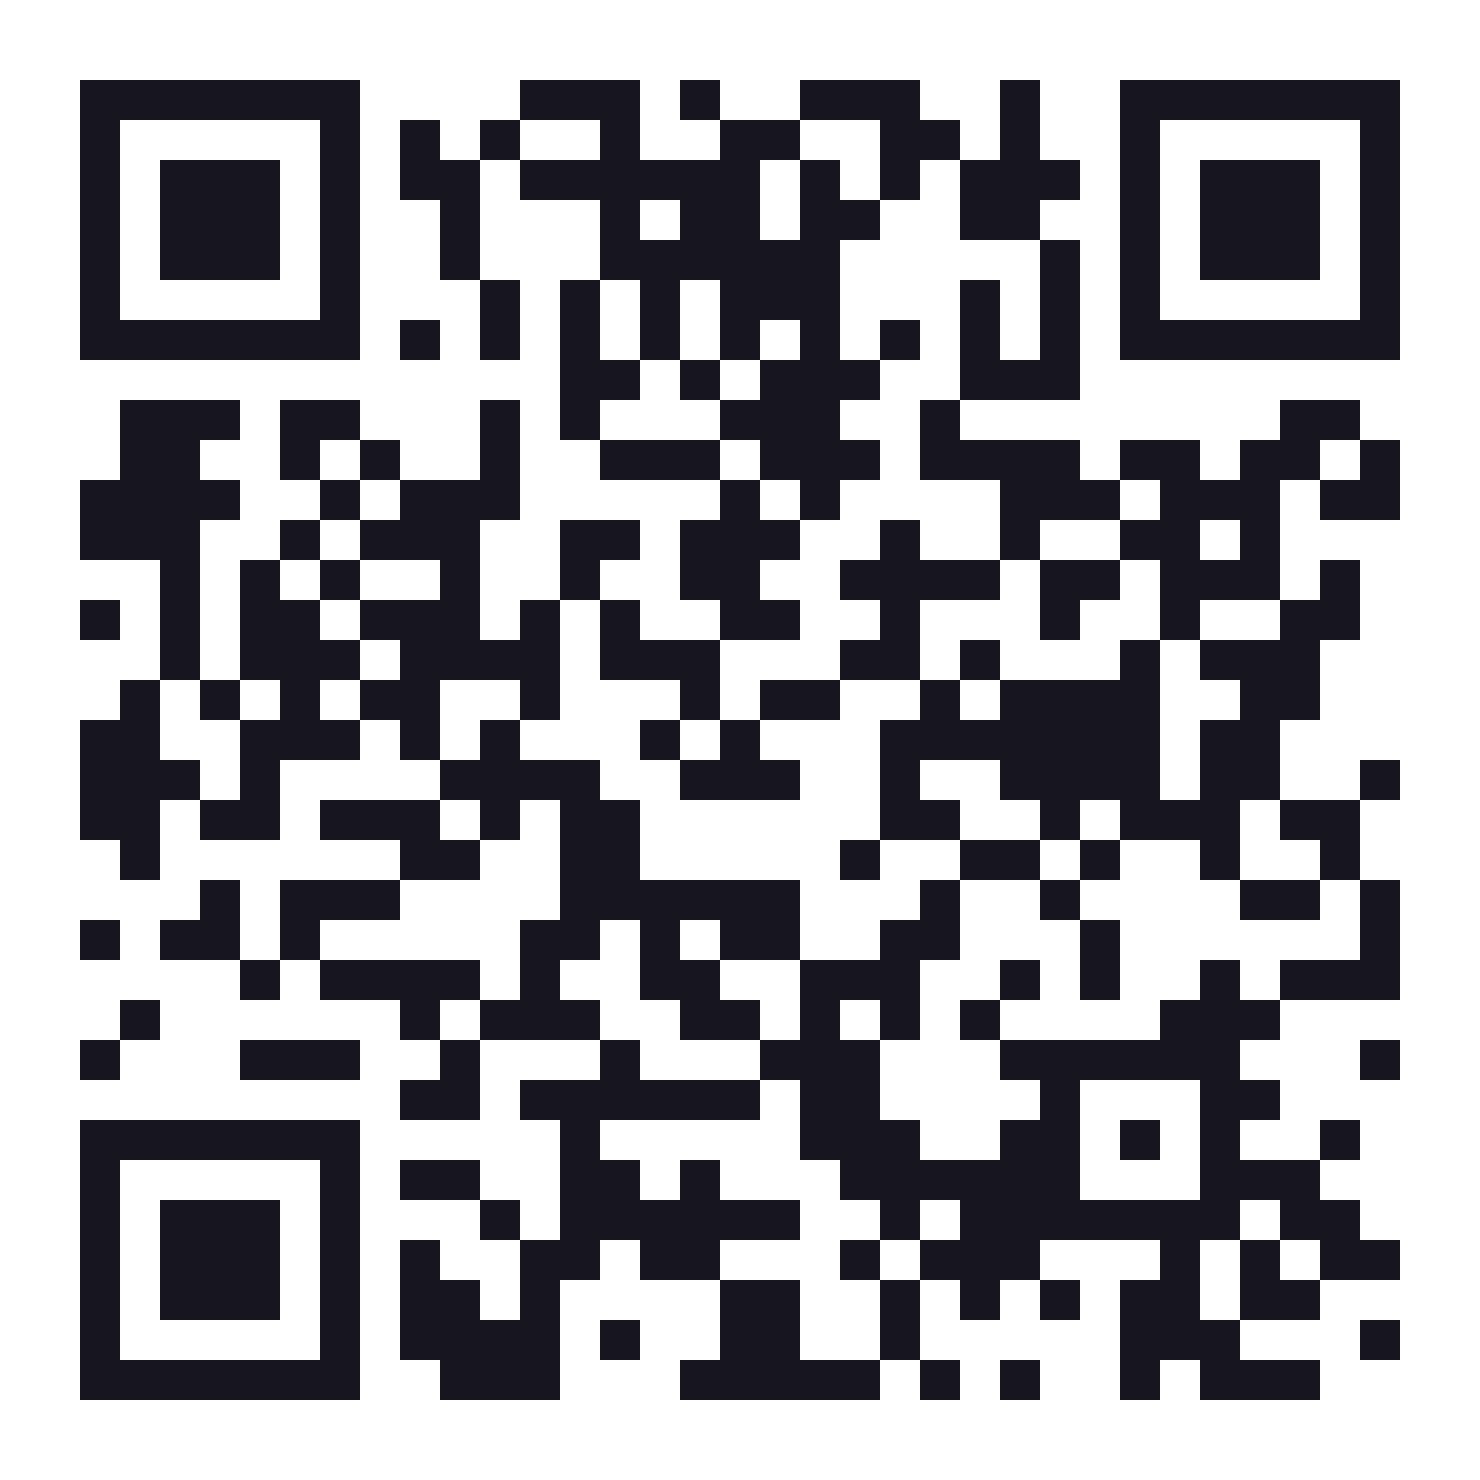
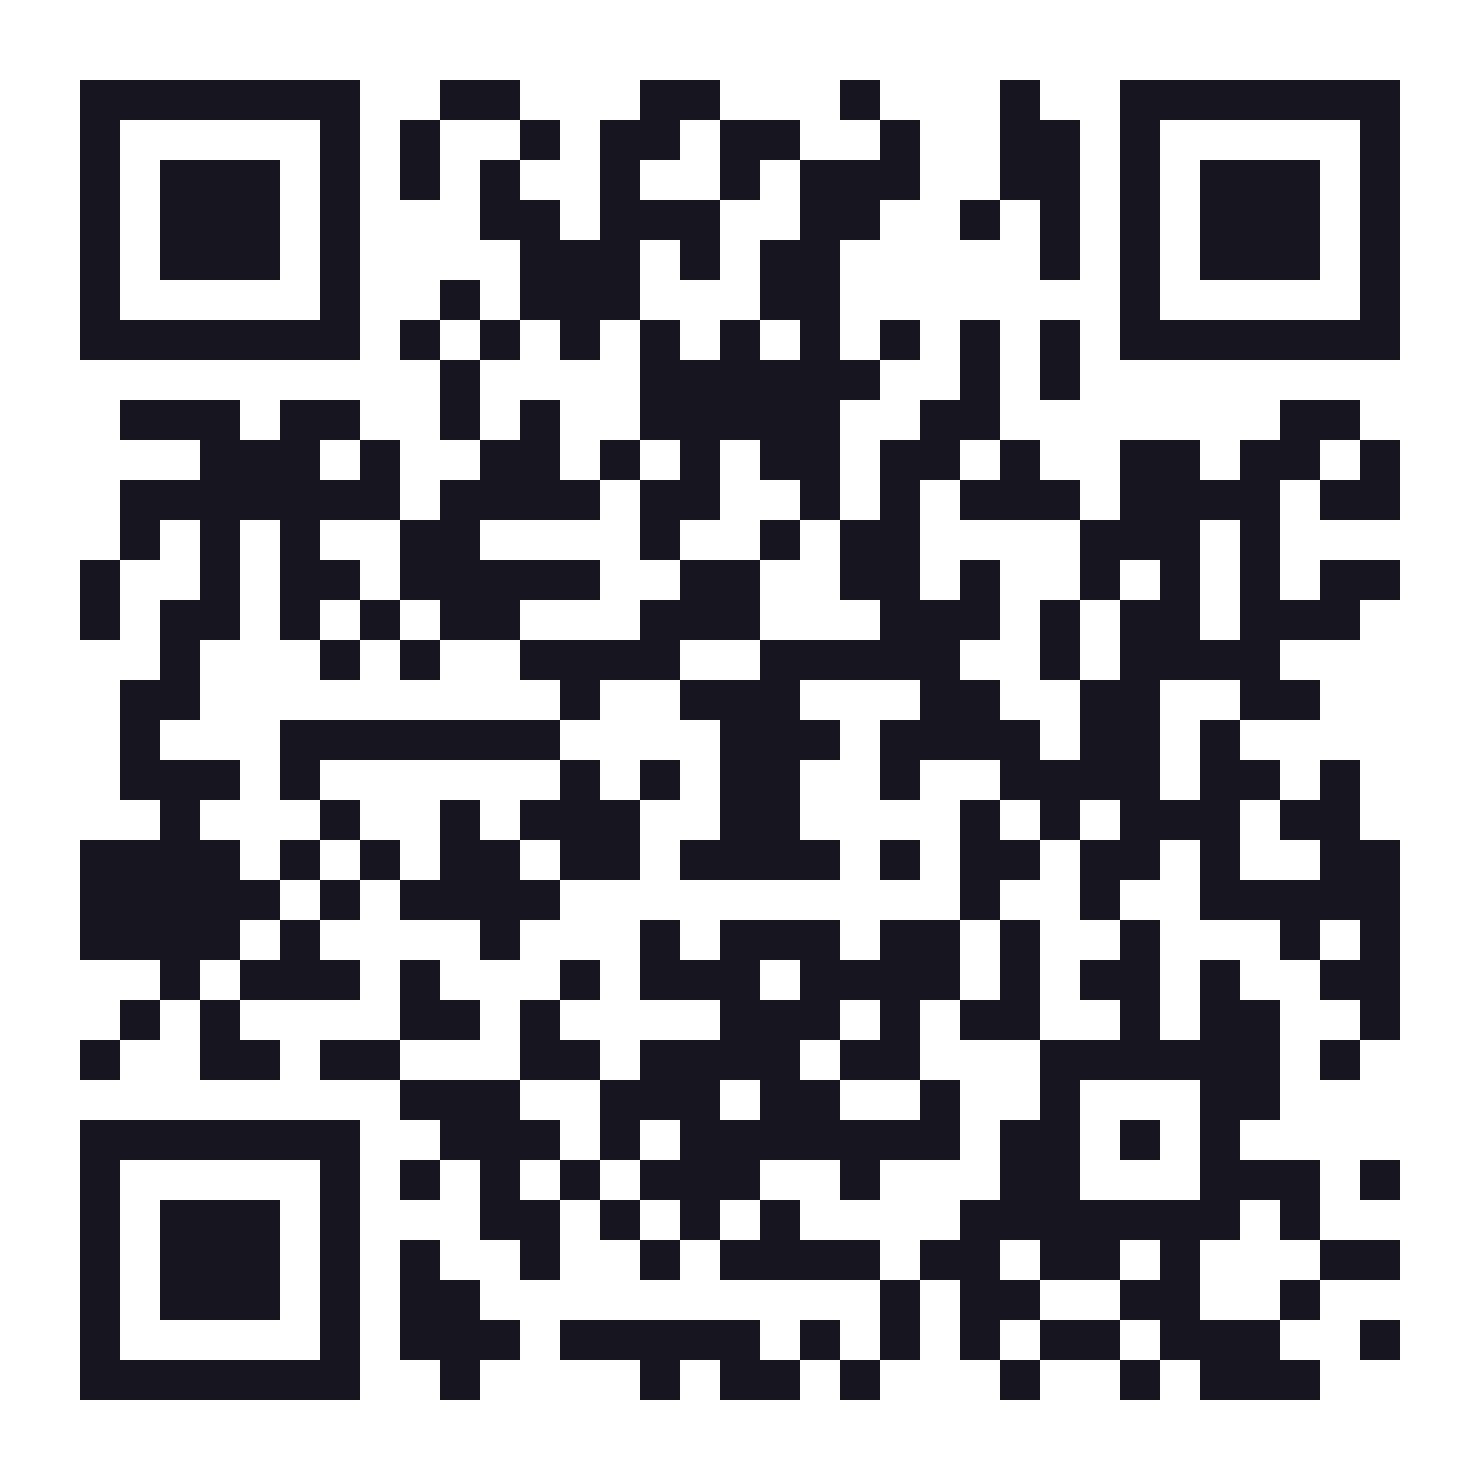
Use the direct Google review link in QR, review cards (FR/EN) and docs
Claude-Session: https://claude.ai/code/session_014YH6rsJi2V4axuvgRq6oeD

diff --git a/apps/magicstick-clean/PRESENCE-EN-LIGNE.md b/apps/magicstick-clean/PRESENCE-EN-LIGNE.md
@@ -50,13 +50,9 @@ Lien à mettre dans chaque bio : `https://magicstickclean.ca/?utm_source=<platef
 
 ## 1 bis. Votre lien d'avis Google
 
-Lien fourni par vous : `https://maps.app.goo.gl/uoKevdokSXRezaAeA` (il ouvre la fiche Google
-« Magicstickclean »). Le code QR et la carte d'avis (`assets/images/marketing/qr-avis-google.png`
-et `carte-avis.png`) pointent vers ce lien.
-
-À faire : testez-le avec votre téléphone (scannez le QR ou ouvrez le lien) et vérifiez qu'il
-ouvre la fenêtre « Écrire un avis ». Sinon : Google Business → « Demander des avis » → copiez
-le lien proposé et donnez-le-moi pour que je régénère le QR.
+Lien d'avis direct : `https://g.page/r/CXlL7jiMiQp2EBI/review` (vérifié : il ouvre la fenêtre
+« Écrire un avis » de votre fiche). Le code QR et les cartes d'avis (`assets/images/marketing/qr-avis-google.png`,
+`carte-avis.png`, `review-card-en.png`) pointent vers ce lien.
 
 **Nom de la fiche :** elle s'appelle « Magicstickclean » (sans espace). Pour que le nom soit
 identique partout, changez-le en **Magicstick Clean** dans Google Business → « Modifier le profil ».

diff --git a/apps/magicstick-clean/PUBLICATIONS-PRETES.md b/apps/magicstick-clean/PUBLICATIONS-PRETES.md
@@ -173,12 +173,12 @@ Give a clean home to someone you love: a Magicstick Clean gift card, with a uniq
 **FR :**
 Merci à nos premiers clients de Rockland. 🙏
 On démarre, et chaque client compte énormément. Si on a bien nettoyé chez toi, un avis Google aide un voisin à nous faire confiance : 30 secondes, un seul clic ⭐
-https://maps.app.goo.gl/uoKevdokSXRezaAeA
+https://g.page/r/CXlL7jiMiQp2EBI/review
 
 **EN:**
 Thank you to our first Rockland clients. 🙏
 We're just starting out, and every client means a lot. If we did right by you, a Google review helps a neighbour trust us: 30 seconds, one tap ⭐
-https://maps.app.goo.gl/uoKevdokSXRezaAeA
+https://g.page/r/CXlL7jiMiQp2EBI/review
 
 *(Aucune récompense en échange d'un avis : c'est interdit par Google. Ne publiez pas de faux avis.)*
 
